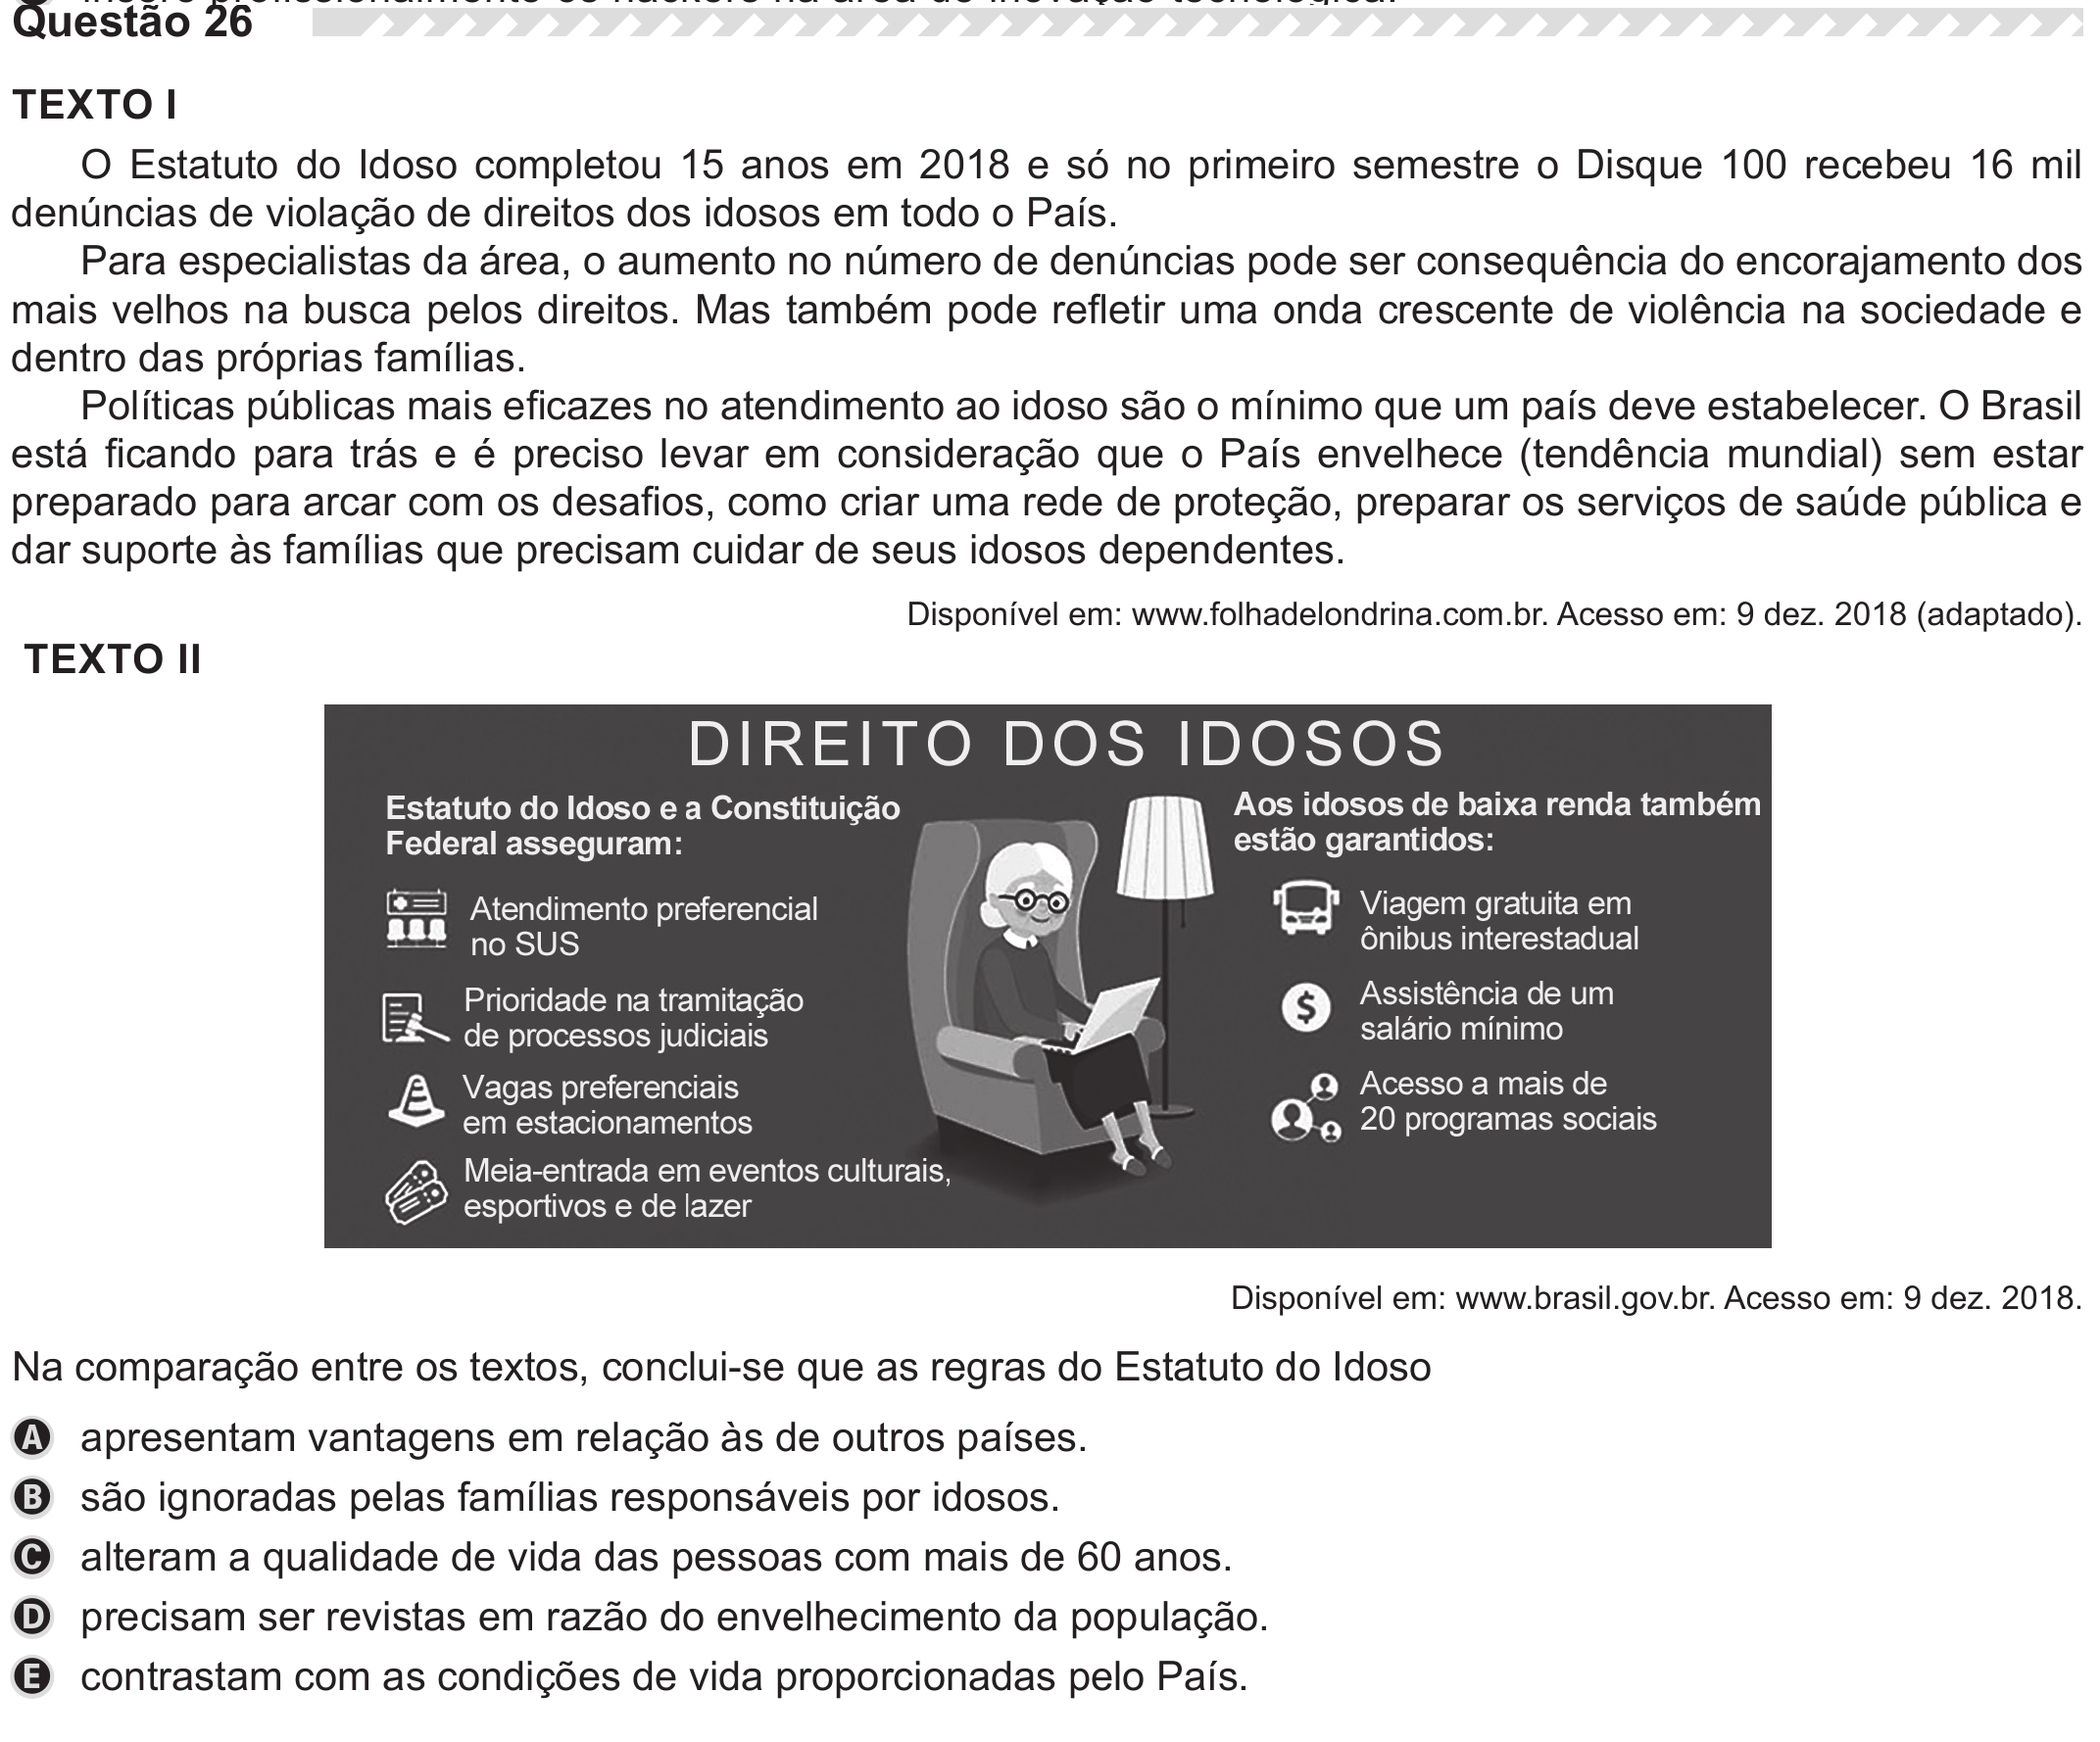
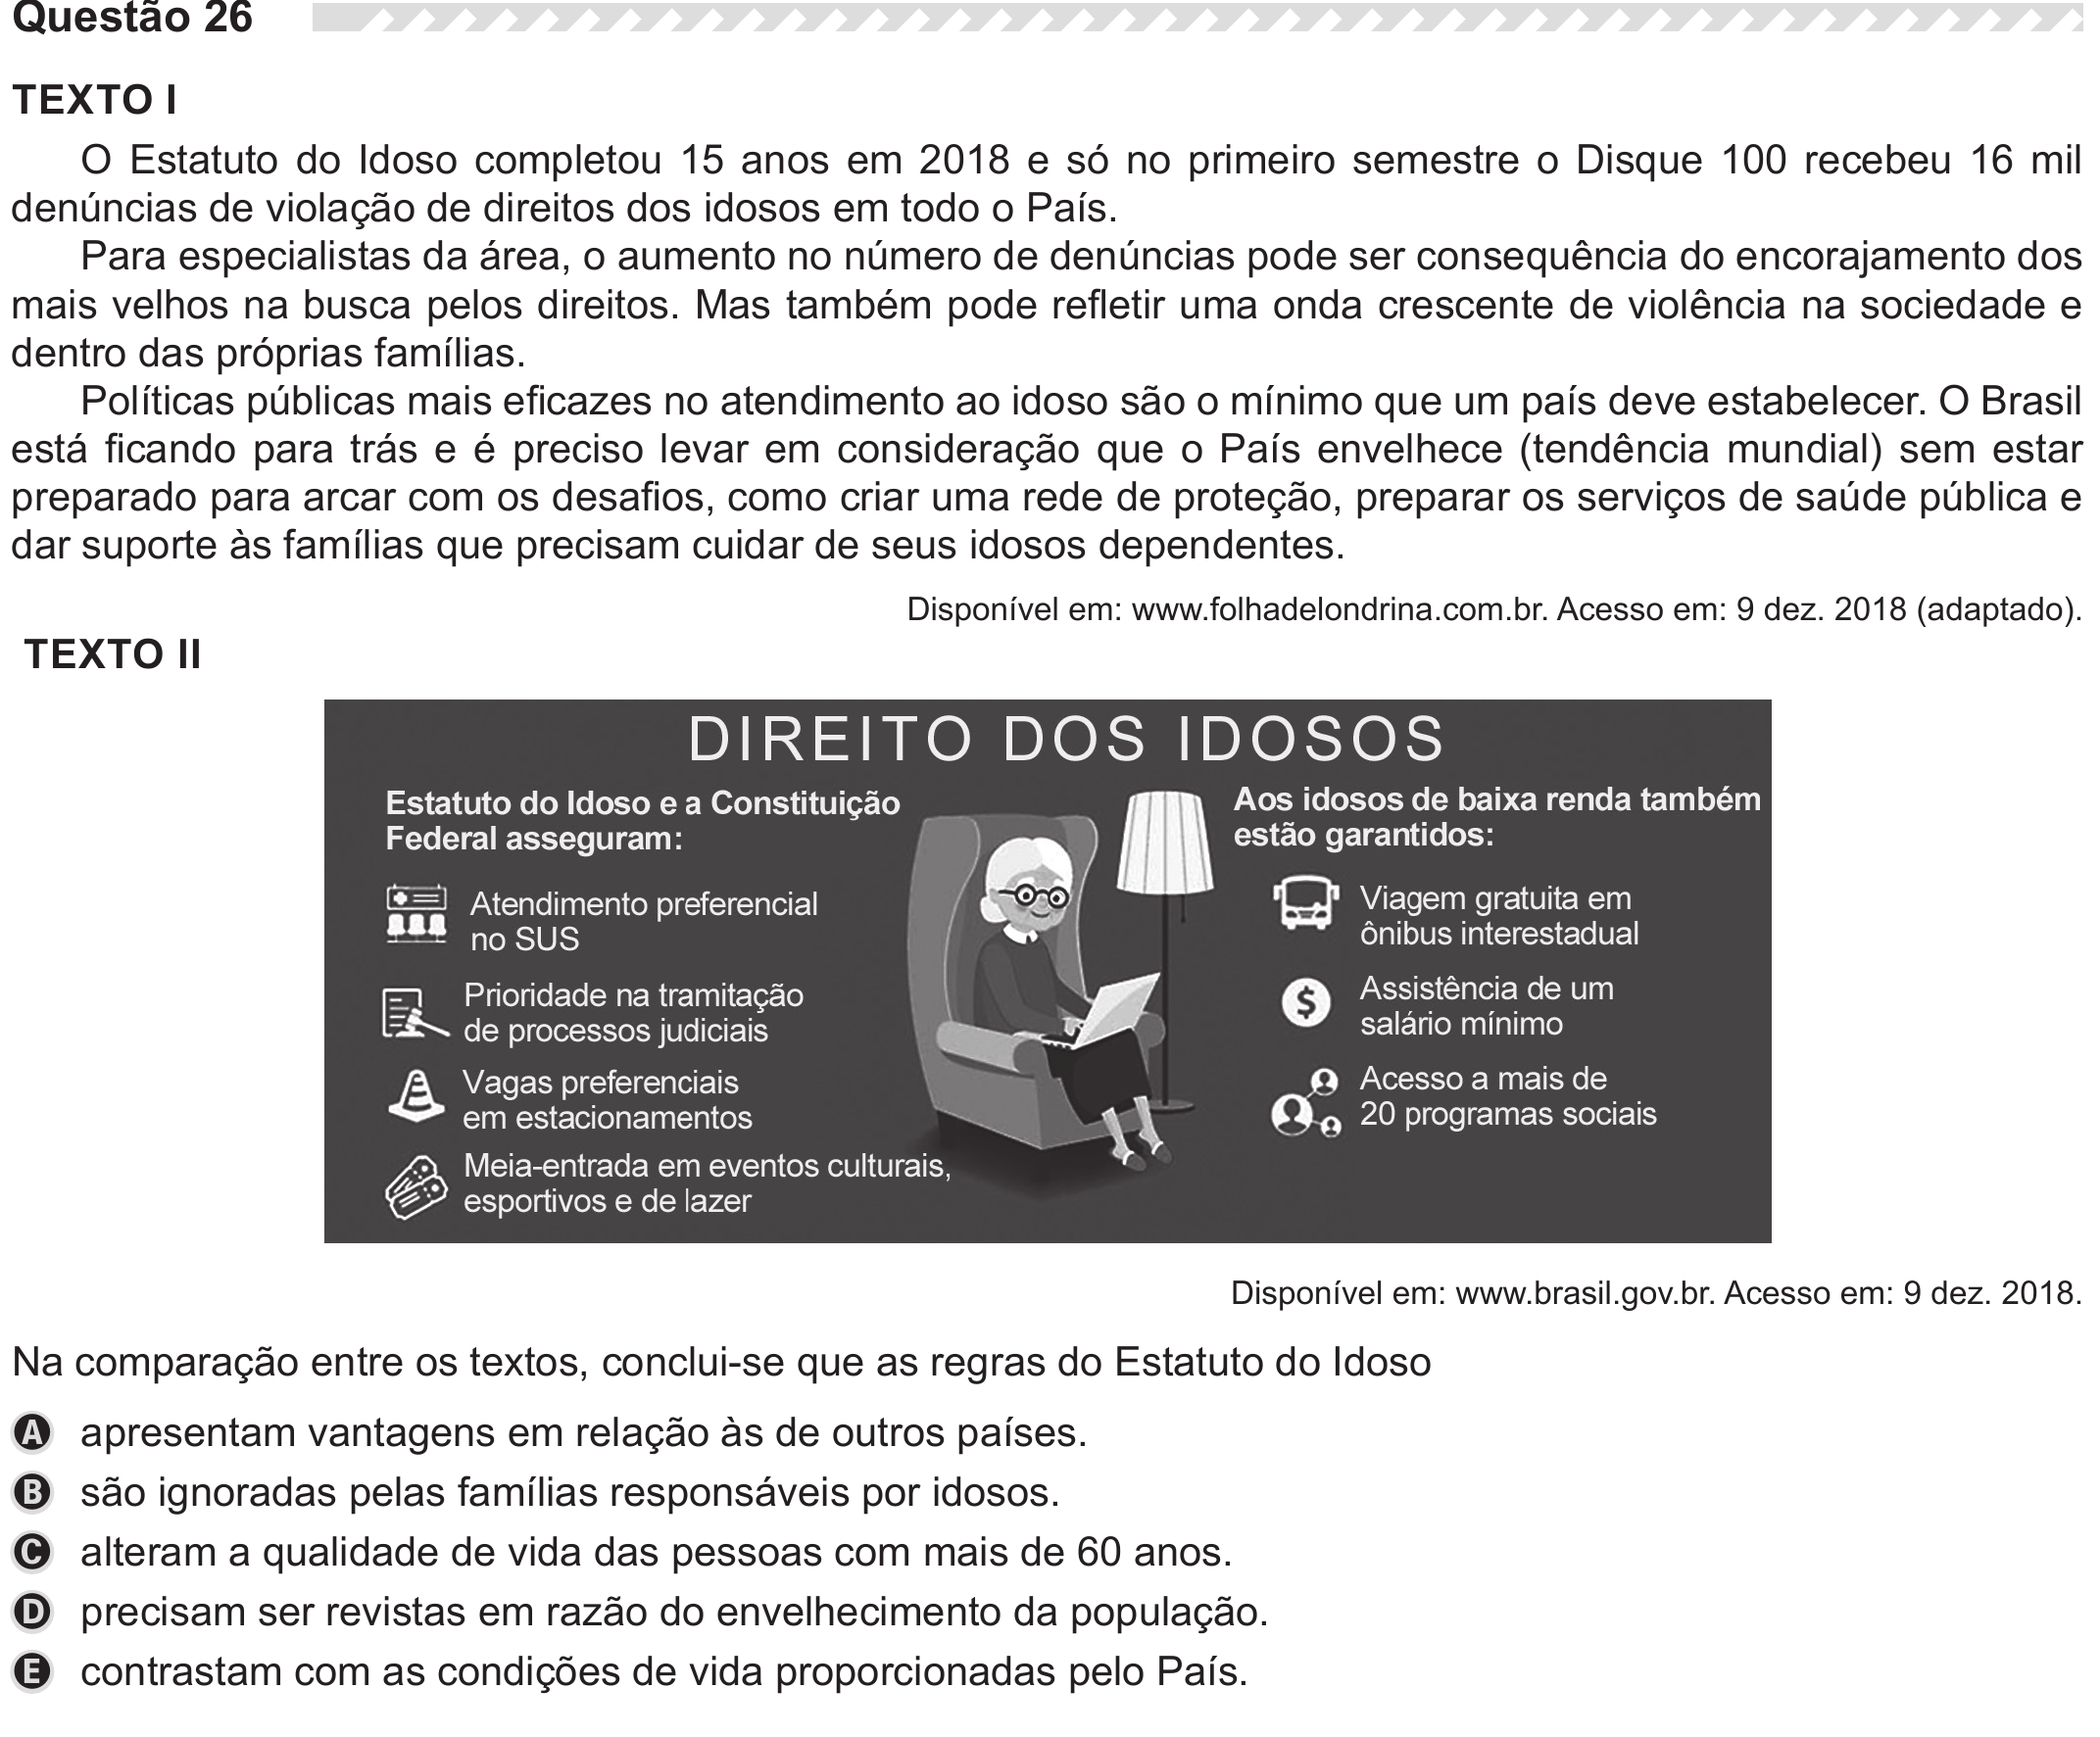
fiz esse horror desse passo

diff --git a/8Passo-OrganizarIntervalosQuestoes/instrucao.md b/8Passo-OrganizarIntervalosQuestoes/instrucao.md
@@ -1,0 +1,7 @@
+Esse é o passo em que você mais precisa pensar e analisar!  
+
+Seu objetivo aqui é organização. Você vai criar várias pastas para colocar os intervalos das questões.  
+
+Crie uma pasta para colocar cada intervalo sequencial de questões.
+
+Isso depende muito da sua prova. Mas utilizando o que aprendeu do caderno de teste 2024-dia1-caderno1-azul-aplicacaoRegular, separe os intervalos ininterruptos sequenciais.
